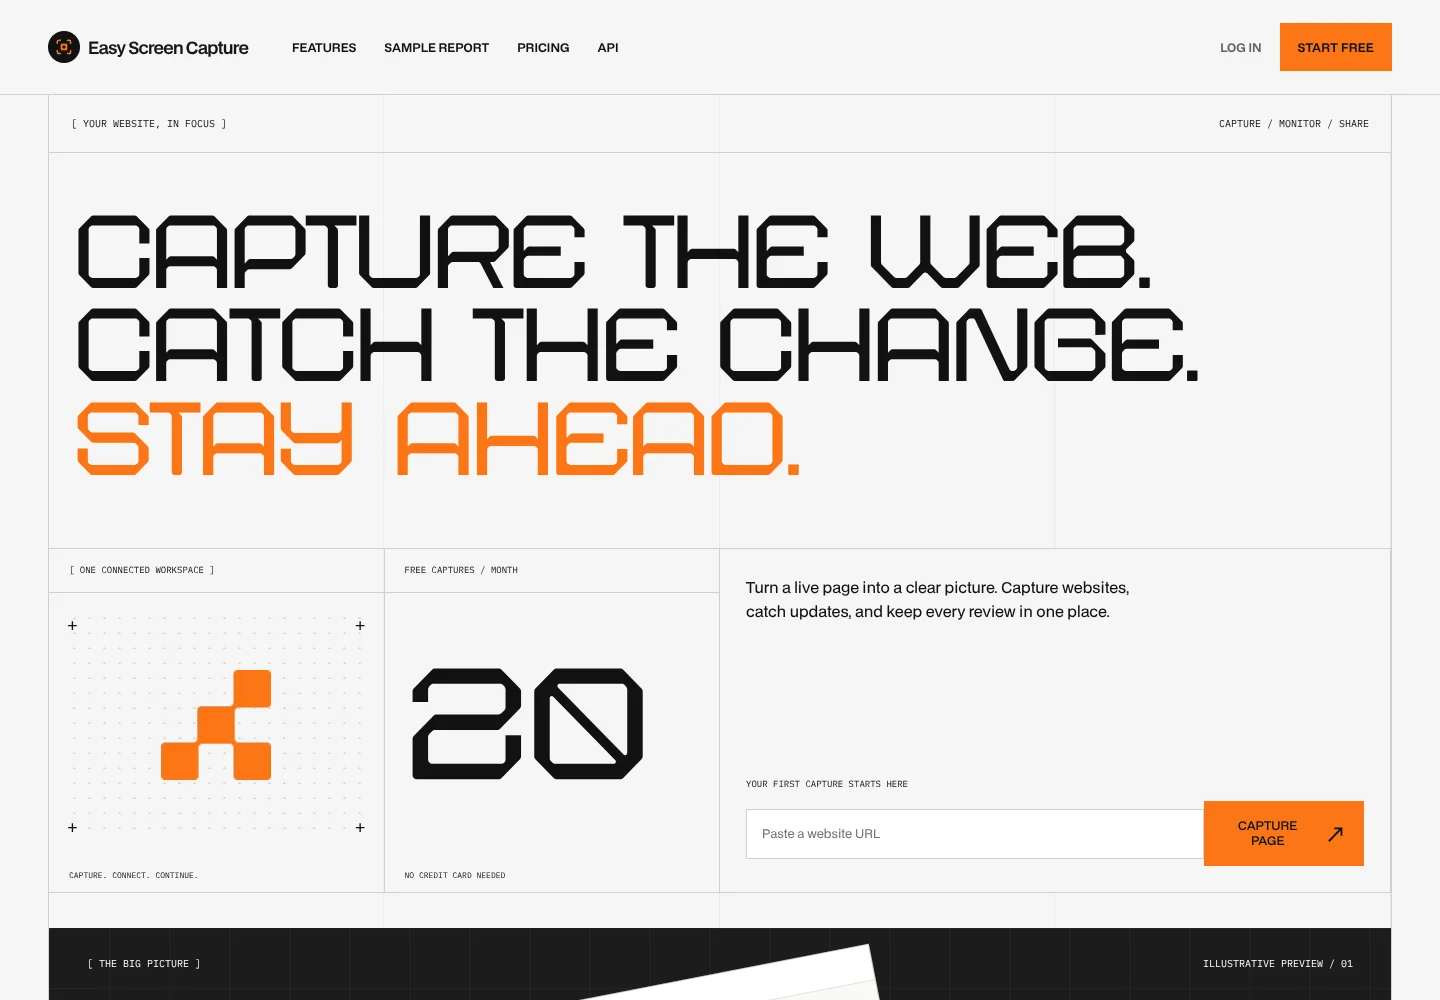
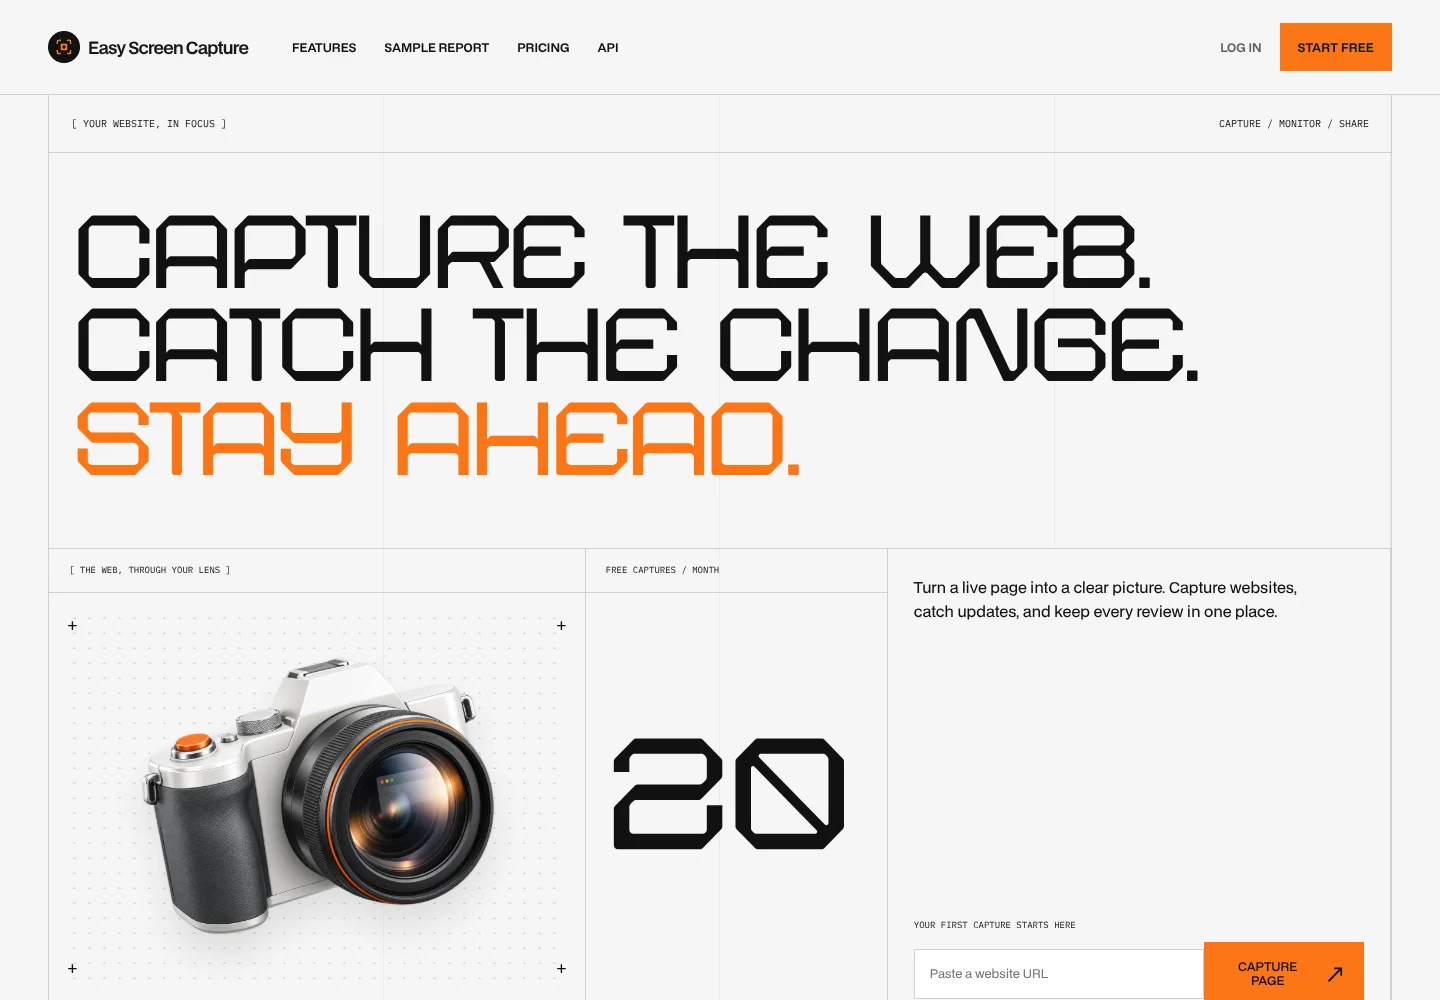
Add floating camera artwork to AI Agency hero

diff --git a/src/styles/adon/ai-landing.css b/src/styles/adon/ai-landing.css
@@ -38,7 +38,7 @@
   color: var(--theme);
 }
 .ai-landing .hero-17-content {
-  grid-template-columns: 1fr 1fr 2fr;
+  grid-template-columns: 1.6fr 0.9fr 1.5fr;
   border-block: 1px solid var(--line);
 }
 .ai-landing .hero-17-content > div {
@@ -51,19 +51,23 @@
   padding: 15px 20px;
   border-bottom: 1px solid var(--line);
 }
-.ai-network-art {
+.ai-camera-art {
   position: relative;
   display: grid;
   place-items: center;
-  aspect-ratio: 1.3;
+  aspect-ratio: 1.35;
   margin: 18px;
   background-image: radial-gradient(#11111120 1px, transparent 1px);
   background-size: 15px 15px;
 }
-.ai-network-art > img {
-  width: 110px;
-  height: auto;
-  animation: ai-float 7s ease-in-out infinite;
+.ai-camera-art > img {
+  width: 100%;
+  height: 100%;
+  object-fit: contain;
+  position: absolute;
+  inset: 0;
+  filter: drop-shadow(0 22px 14px #11111118);
+  animation: ai-camera-float 8s ease-in-out infinite;
 }
 .ai-cross {
   position: absolute;
@@ -604,7 +608,7 @@
 }
 @media (max-width: 1100px) {
   .ai-landing .hero-17-content {
-    grid-template-columns: 1fr 1fr 2fr;
+    grid-template-columns: 1.6fr 0.9fr 1.5fr;
   }
   .ai-landing .hero-17-title {
     font-size: 8vw;
@@ -679,15 +683,15 @@
   }
   .ai-landing .hero-17-content .year {
     margin: auto 0;
-    font-size: 100px;
+    font-size: clamp(60px, 19vw, 90px);
     padding: 25px 16px;
   }
-  .ai-network-art {
+  .ai-camera-art {
     aspect-ratio: 1.2;
     margin: 14px;
   }
-  .ai-network-art > img {
-    width: 75px;
+  .ai-camera-art > img {
+    width: 100%;
   }
   .ai-landing .hero-17-content .location,
   .ai-landing .hero-17-content .experience {
@@ -875,12 +879,29 @@
 }
 @media (prefers-reduced-motion: reduce) {
   .ai-landing .cubes-wrapper img,
-  .ai-network-art > img {
+  .ai-camera-art > img {
     animation: none;
     translate: none;
     rotate: none;
   }
   .ai-landing .adon-motion-toggle {
     display: none;
+  }
+}
+
+@keyframes ai-camera-float {
+  0%,
+  100% {
+    translate: 0 4px;
+    rotate: -2deg;
+  }
+  50% {
+    translate: 0 -8px;
+    rotate: 1deg;
+  }
+}
+@media (max-width: 767px) {
+  .ai-landing .hero-17-content {
+    grid-template-columns: 1.35fr 1fr;
   }
 }

diff --git a/docs/camera-hero.md b/docs/camera-hero.md
@@ -1,0 +1,11 @@
+# Camera hero artwork
+
+Generated with the built-in image-generation tool for Easy Screen Capture.
+
+Asset: `public/images/capture-camera.webp` (transparent alpha, 1254 × 1254, WebP delivery encoding).
+
+The camera replaces the abstract network shape in the AI Agency hero. Slow floating motion honors reduced-motion preferences and the existing pause control. It is decorative; the heading and capture form communicate the product without it.
+
+## Generation prompt
+
+Use case: stylized-concept. Asset type: transparent 3D hero illustration for Easy Screen Capture, a website screenshot and monitoring app using a light gray ruled grid, angular black typography and orange #FB7515 accents. Primary request: one premium futuristic compact photo camera floating in space, a product-specific alternative to an AI agency robot. Subject: sculptural compact mirrorless camera, matte porcelain-white metal body, graphite grip and large sophisticated dark glass lens with a thin orange lens ring and orange shutter button. In the lens, a very subtle reflection of a minimal browser window with three tiny dots, no readable words. View: dramatic three-quarter front view, lens facing slightly toward viewer/right, camera tilted about 12 degrees, entire object visible. Style: high-end physically rendered 3D studio product illustration, beautiful bevels, restrained industrial detailing, soft highlights, tactile materials. Composition: single centered camera filling about 85% of a square canvas, generous clean transparent margins. Background: genuinely transparent alpha, no floor, no rectangle, no environment. Soft object shading only. No text, letters, logos, watermark, people, robots, floating UI panels or extra objects. Avoid cartoon emoji and toy styling.

diff --git a/docs/adon-redesign.md b/docs/adon-redesign.md
@@ -6,7 +6,7 @@ This branch applies **Adon / AI Agency / Light**, selected by the owner, from th
 
 ## Coverage
 
-- Rebuilt homepage: oversized three-line hero, working URL handoff, product preview, keyboard-accessible feature tabs, horizontal showcase, capture modes, floating 3D monitoring section, plan-derived counters, API example, native FAQ and closing CTA.
+- Rebuilt homepage: oversized three-line hero with a custom floating 3D camera, working URL handoff, product preview, keyboard-accessible feature tabs, horizontal showcase, capture modes, floating 3D monitoring section, plan-derived counters, API example, native FAQ and closing CTA.
 - Shared AI Agency typography, palette, square buttons, inputs, header and grid footer across pricing, features, API docs, legal/support pages and reports.
 - Grid-based login/signup layouts, preserving form IDs, submit handlers and redirect fields.
 - Matching workspace rail, active navigation, capture panels, inputs, selected presets and usage cards. The responsive bottom navigation and existing app controls remain intact.
@@ -62,3 +62,5 @@ Capture workspace:
 Pricing:
 
 ![Pricing](design/pricing-desktop.webp)
+
+The camera is original AI-generated artwork, delivered as a transparent WebP. See [camera-hero.md](camera-hero.md) for the exact generation prompt and motion behavior.
